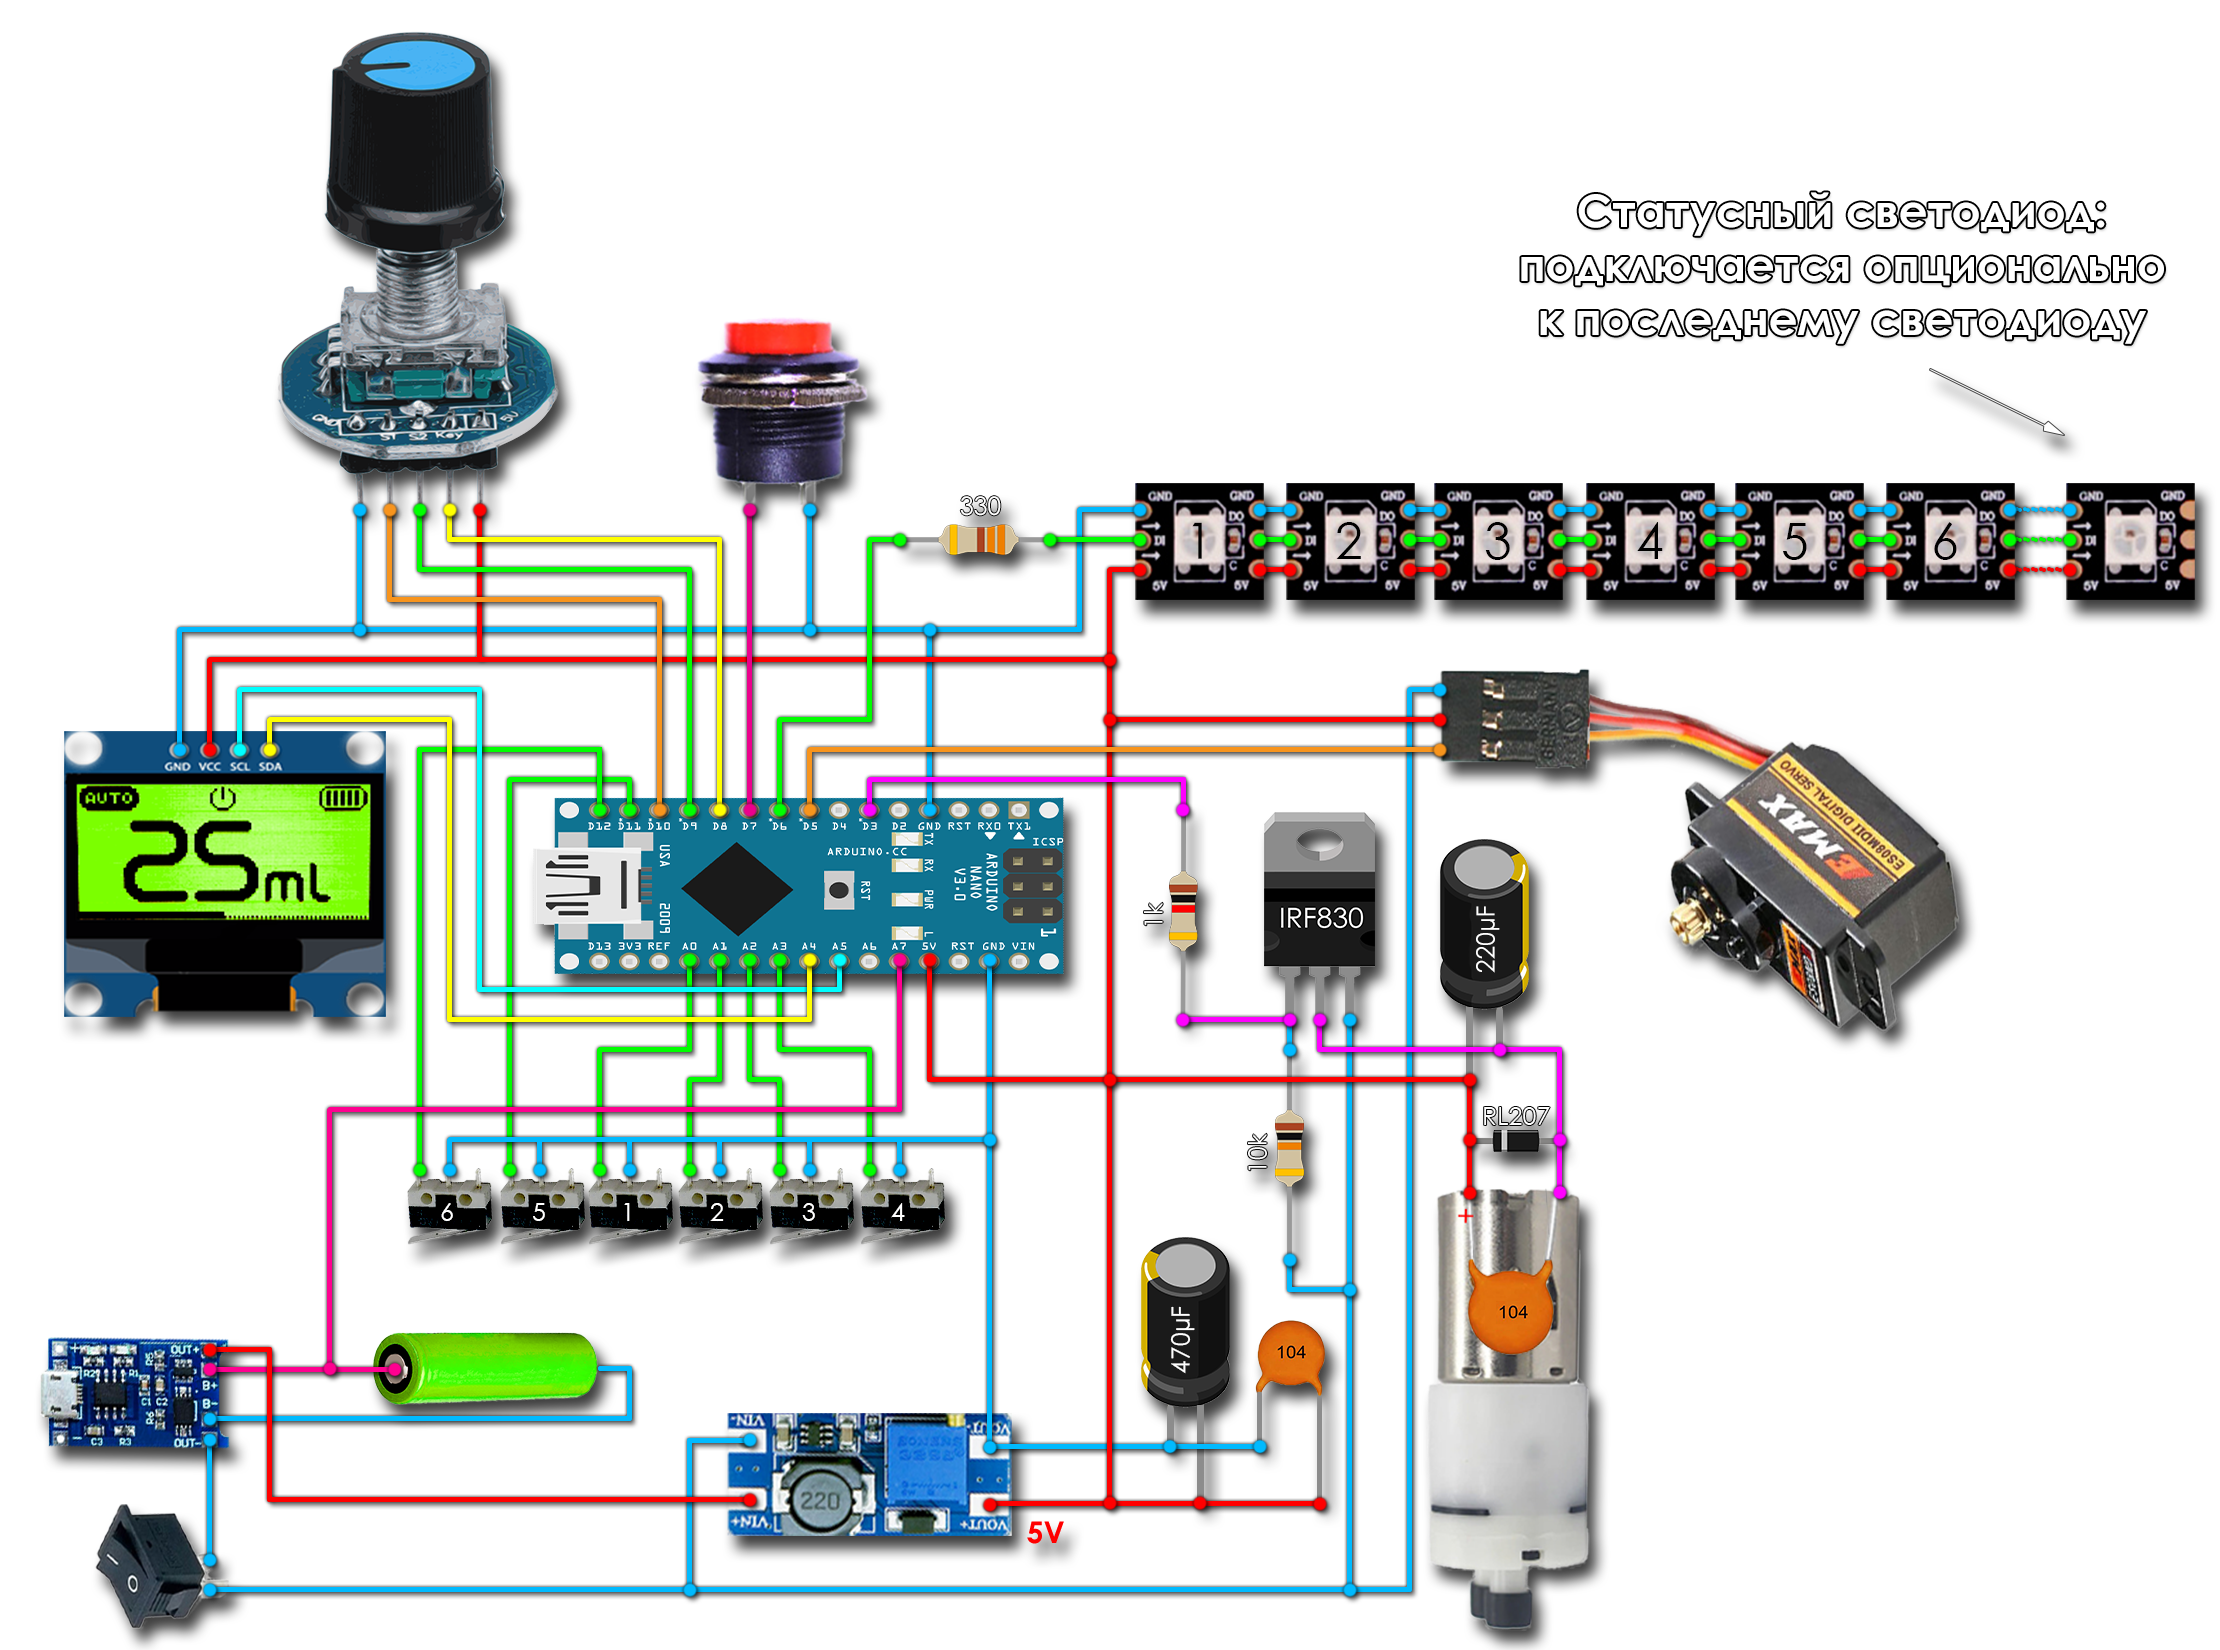
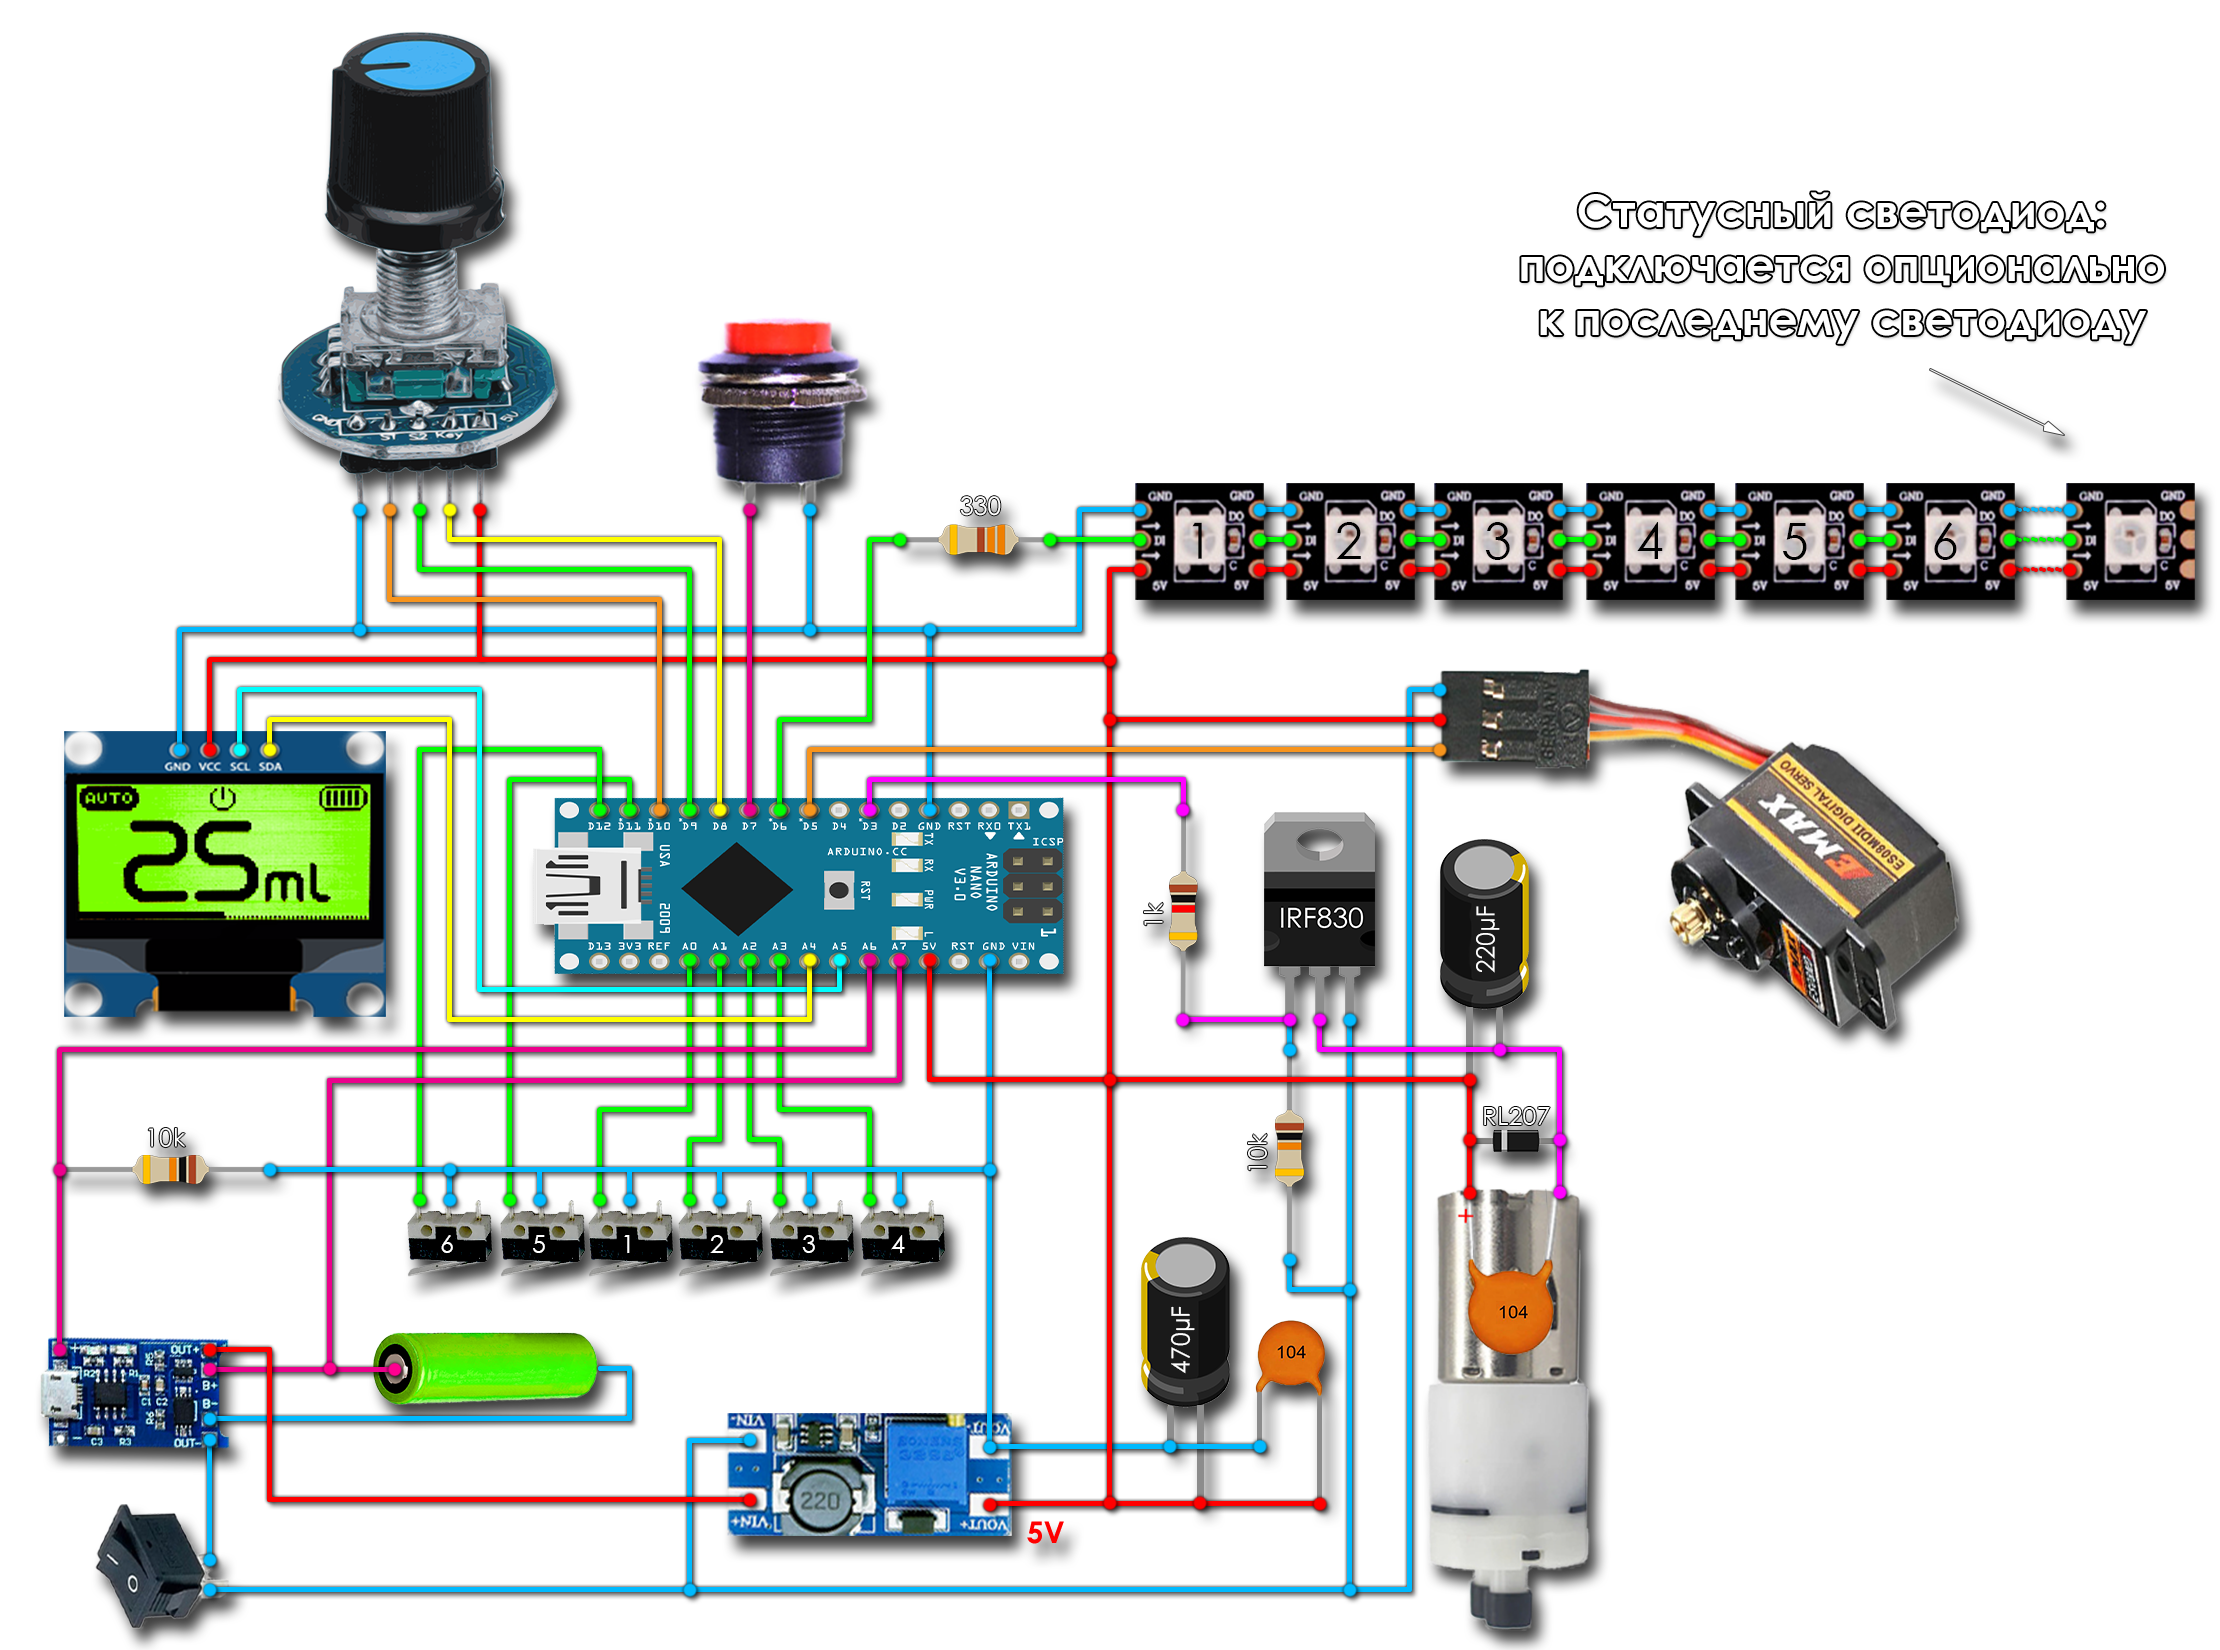
upd v6.7

Changed region(s): [[0.0, 0.5873, 0.4662, 0.8345]]

diff --git a/firmware/GyverDrink_VICLER_MOD/Config.h b/firmware/GyverDrink_VICLER_MOD/Config.h
@@ -12,8 +12,9 @@
 #define SWITCH_LEVEL   0     // кнопки: 1 → высокий сигнал при замыкании, 0 → низкий
 #define ENCODER_TYPE   1     // тип энкодера. 0 или 1. Отличаются количеством делений на оборот
 #define ENCODER_DIR    1     // направление вращения энкодера. 0 или 1
-#define STATUS_LED     0     // яркость статус-светодиода. 255 → максимум, 0 → не подключен
-//#define BATTERY_PIN    A7    // + аккумулятора (максимум 5 вольт без делителя). Убрать // если подключен
+//#define STATUS_LED     20    // яркость статус-светодиода. 255 → максимум. Раскомментировать, если подключен
+//#define BATTERY_PIN    A7    // + аккумулятора (максимум 5 вольт без делителя). Раскомментировать, если подключен
+//#define CHARGER_PIN    A6    // IN+ с TP4056. Используется для детектирования зарядки.
 
 /*■■■■■■■■■■■■■■■■■■■■■ Параметры, изменяемые в сервис режиме ■■■■■■■■■■■■■■■■■■■■■■*/
 
